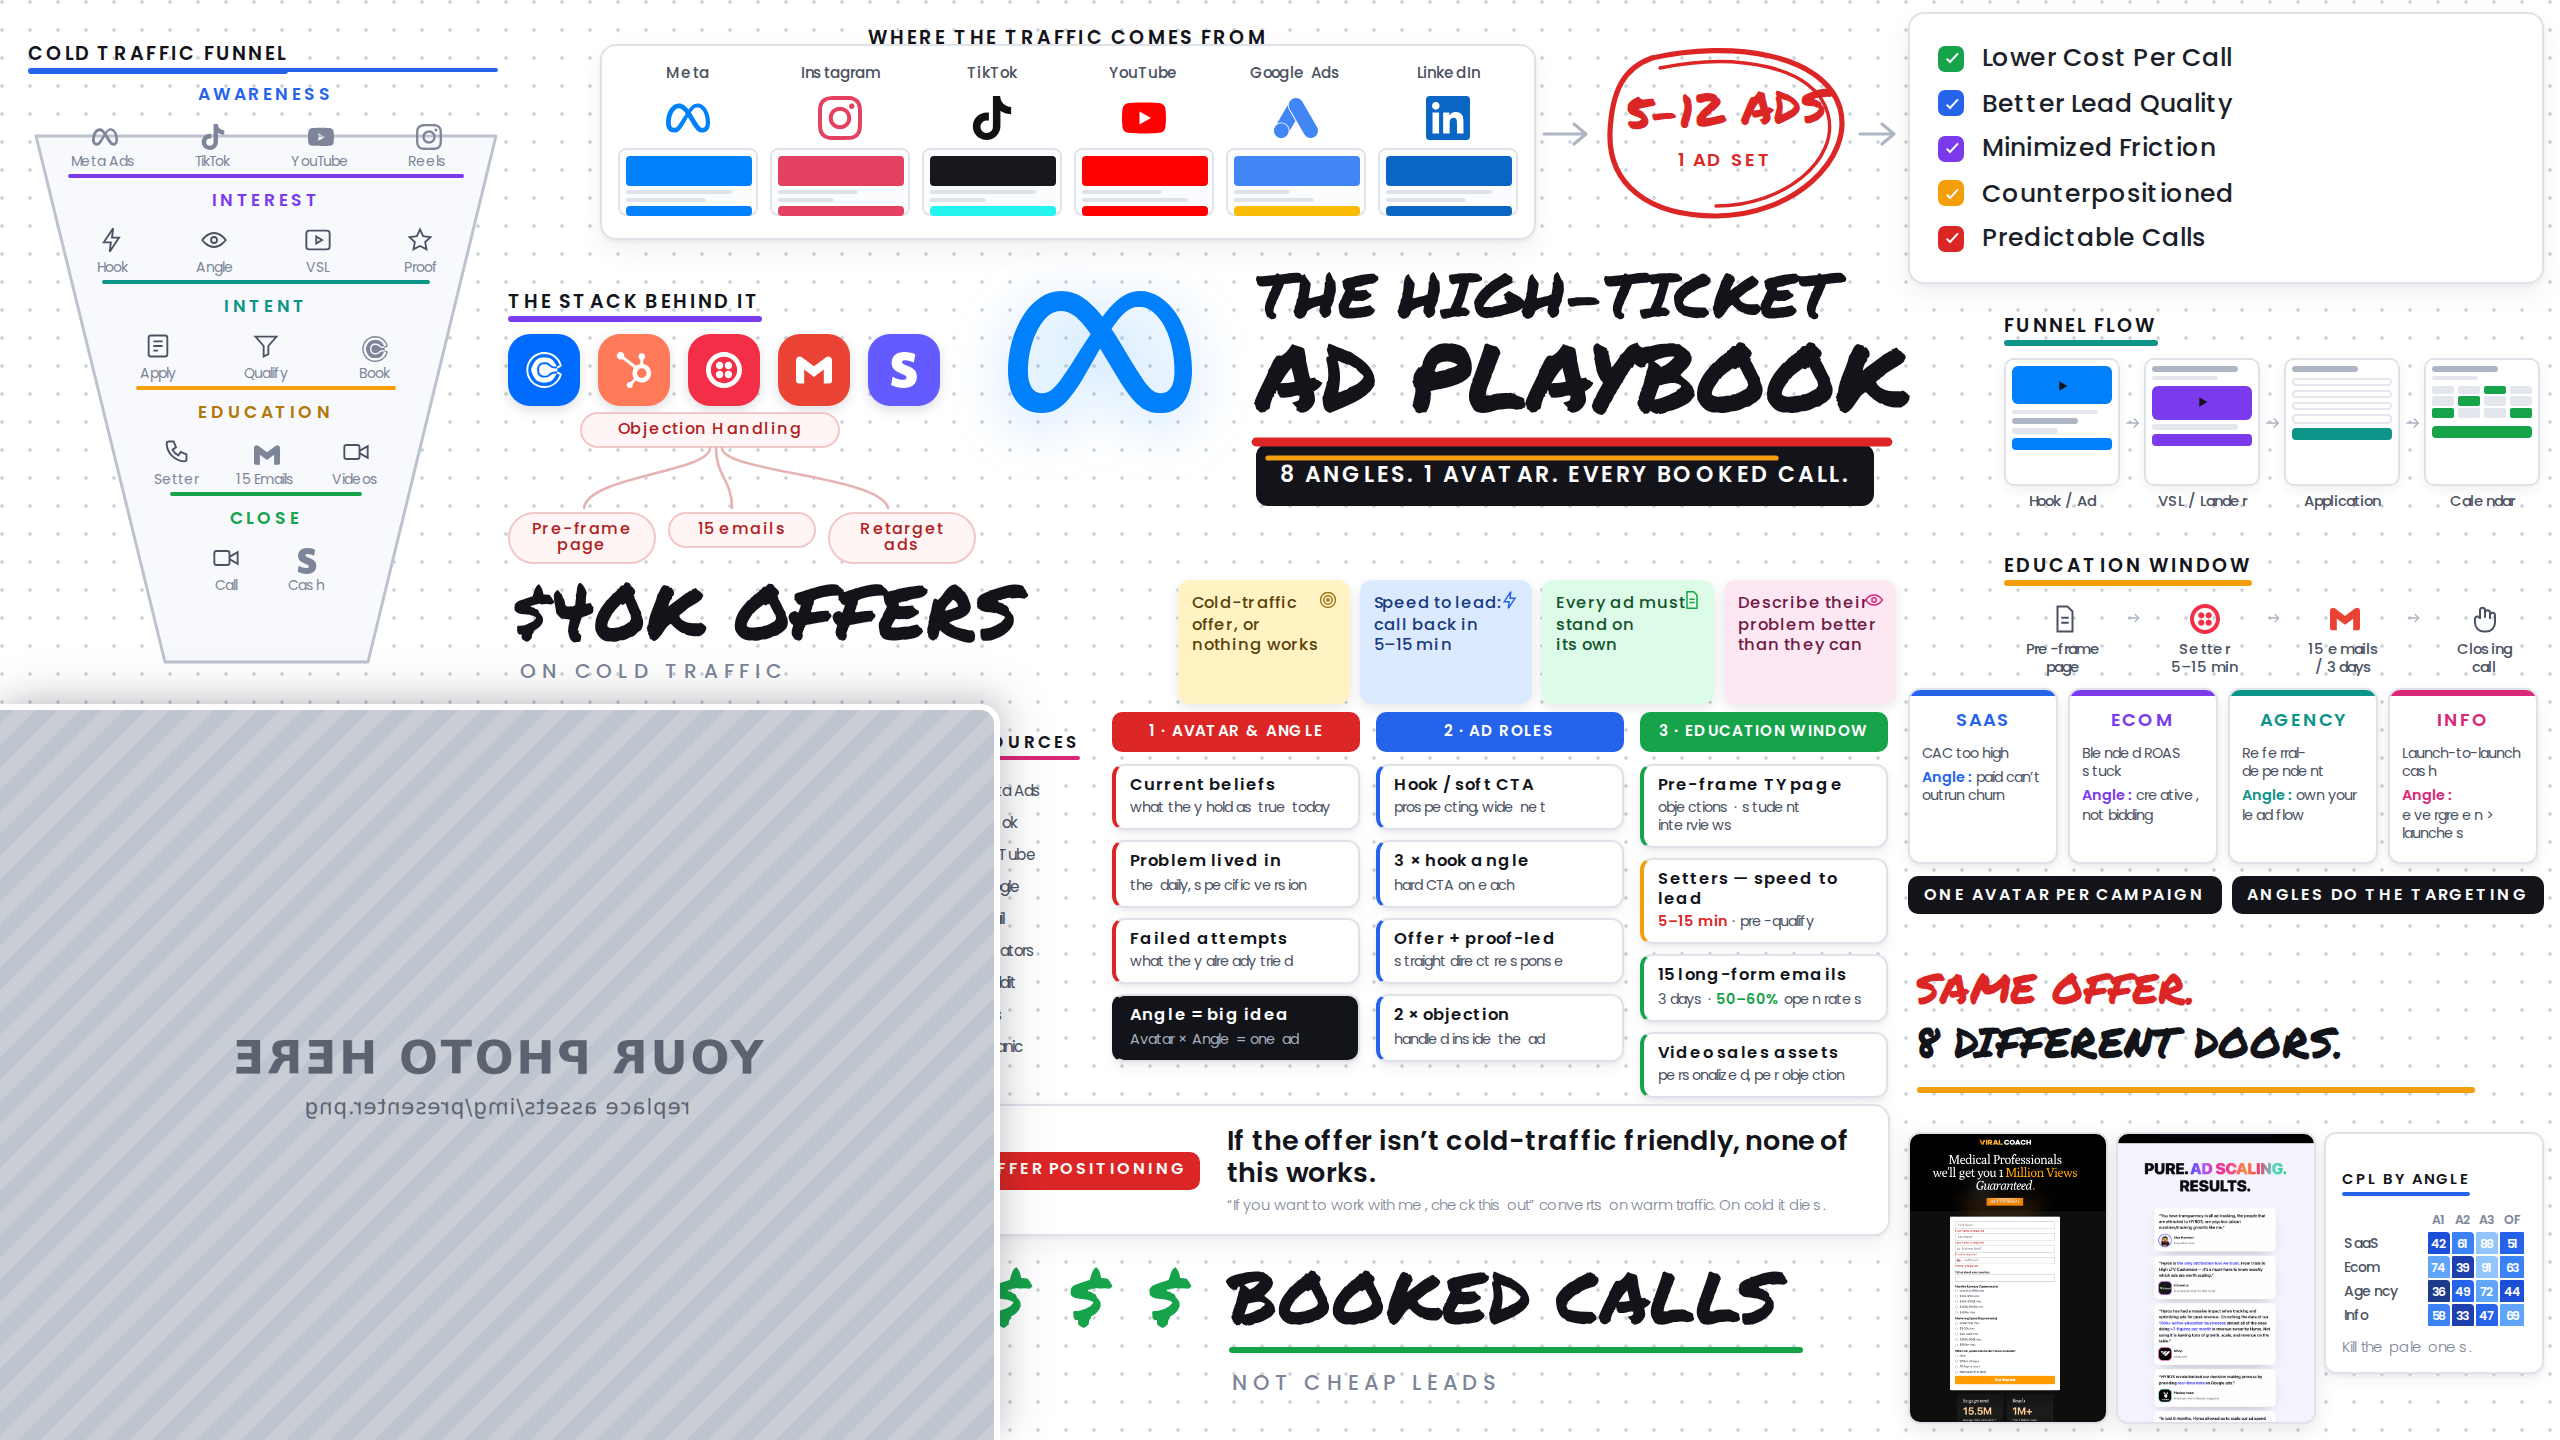
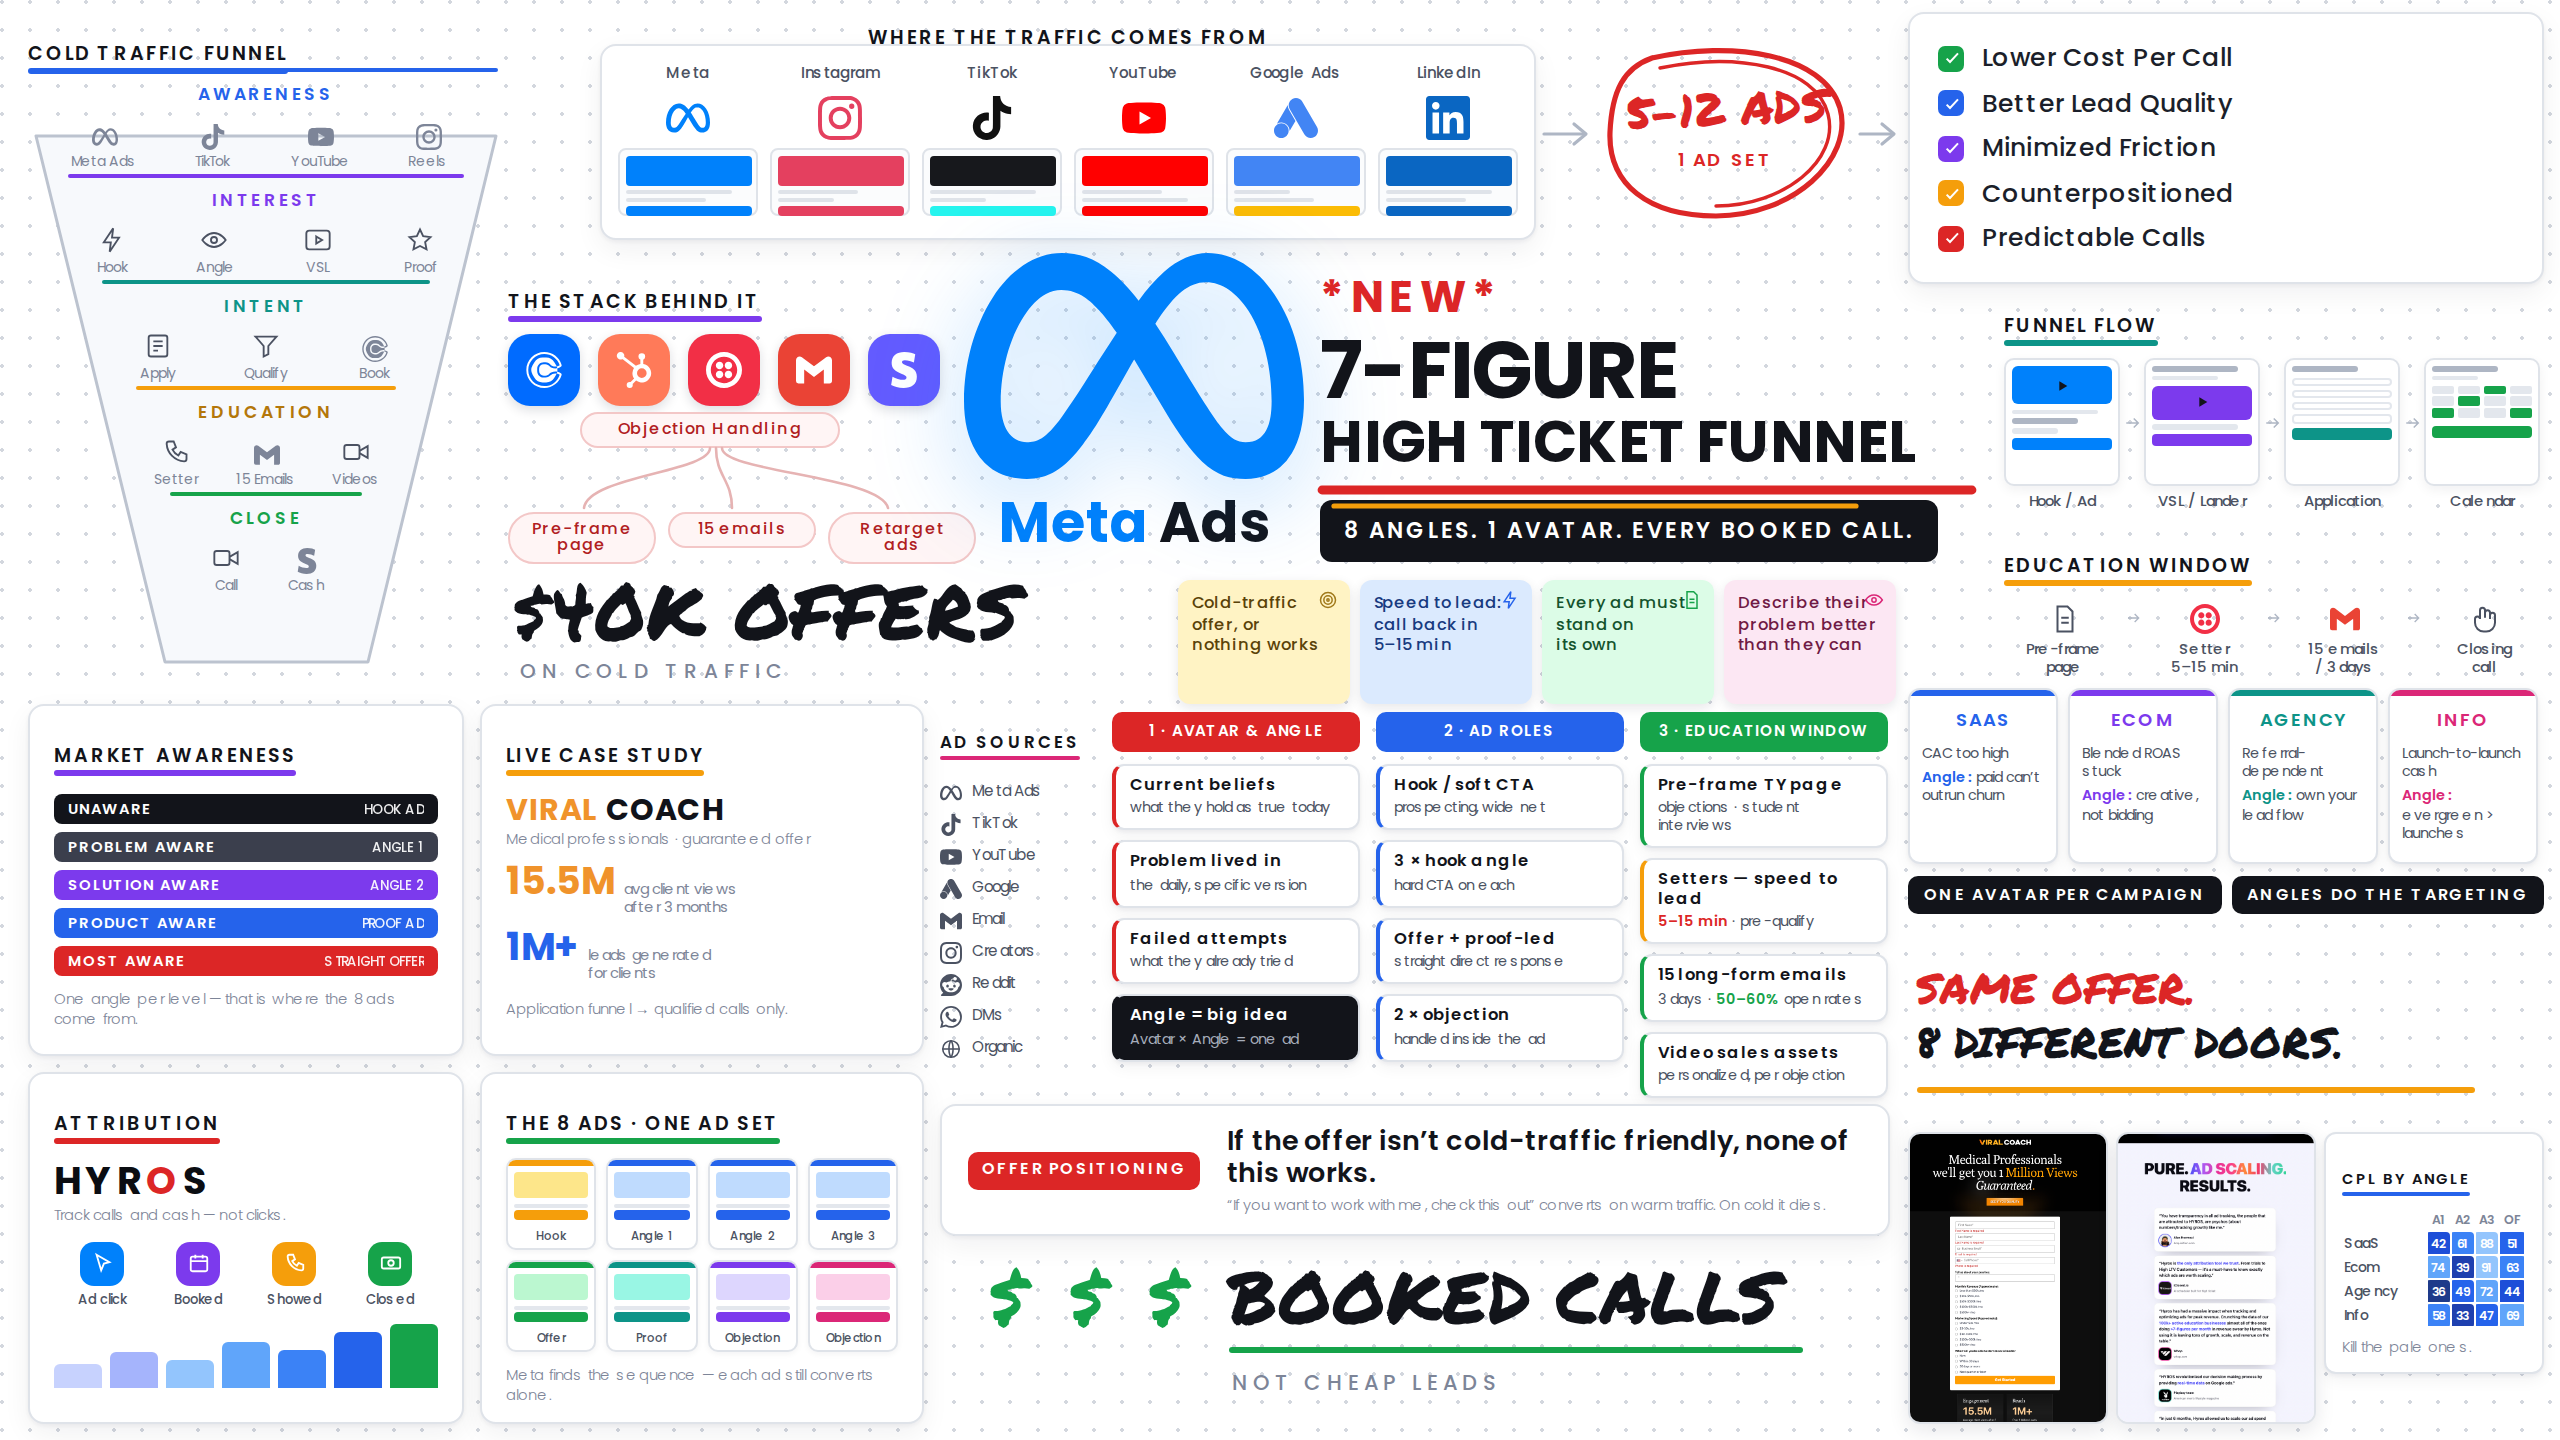
Retitle thumbnail and enlarge the Meta Ads anchor
- Title is now *NEW* / 7-FIGURE / HIGH TICKET FUNNEL, set in Poppins 700
  instead of the marker face
- Meta mark scaled from 92px to 170px and paired with a "Meta Ads" wordmark,
  so it reads as the anchor logo at a glance
- Presenter frame set to display:none until the real photo is available

Claude-Session: https://claude.ai/code/session_01GDiUpLQwiL13ZvT66QBghD

Changed region(s): [[0.0, 0.4688, 0.4062, 1.0], [0.375, 0.1562, 0.7812, 0.4062]]

diff --git a/design/thumbnails/multi-avatar-funnel/index.html b/design/thumbnails/multi-avatar-funnel/index.html
@@ -1,6 +1,6 @@
 <!doctype html>
 <meta charset="utf-8">
-<title>The High-Ticket Ad Playbook — Thumbnail</title>
+<title>7-Figure High Ticket Funnel — Thumbnail</title>
 <style>
 @font-face{font-family:Marker;src:url(assets/fonts/permanent-marker-latin-400-normal.woff2) format('woff2');font-weight:400;font-display:block}
 @font-face{font-family:Poppins;src:url(assets/fonts/poppins-latin-300-normal.woff2) format('woff2');font-weight:300;font-display:block}
@@ -140,14 +140,22 @@ svg.pen{position:absolute;overflow:visible;pointer-events:none}
 }
 
 /* ═══════ E · anchor ═══════ */
-#anchor{left:504px;top:130px;width:92px;height:92px}
-#anchor .lg{width:92px;height:92px;filter:drop-shadow(0 6px 14px rgba(0,129,251,.28))}
+#anchor{left:482px;top:98px;width:170px;text-align:center}
+#anchor .lg{width:170px;height:170px;display:block;margin:0 auto;
+  filter:drop-shadow(0 10px 22px rgba(0,129,251,.30))}
+#anchor .mads{margin-top:-20px;font-weight:700;font-size:28px;letter-spacing:-.015em;
+  line-height:1;color:#12141a;white-space:nowrap}
+#anchor .mads i{font-style:normal;color:#0081fb}
 
 /* ═══════ F · title ═══════ */
-#ttl{left:628px;top:132px;width:392px}
-#ttl .l1{font-family:Marker,cursive;font-size:31px;line-height:1;white-space:nowrap}
-#ttl .l2{font-family:Marker,cursive;font-size:47px;line-height:.98;letter-spacing:-.01em;margin-top:2px;white-space:nowrap}
-#ttl .bar{margin-top:11px;display:inline-block;background:#12141a;color:#fff;
+#ttl{left:660px;top:138px;width:340px}
+#ttl .l0{font-weight:700;font-size:22px;letter-spacing:.15em;line-height:1;
+  color:var(--red);white-space:nowrap}
+#ttl .l1{font-weight:700;font-size:40px;letter-spacing:-.015em;line-height:1;
+  margin-top:5px;white-space:nowrap}
+#ttl .l2{font-weight:700;font-size:29px;letter-spacing:-.008em;line-height:1.02;
+  margin-top:2px;white-space:nowrap}
+#ttl .bar{margin-top:13px;display:inline-block;background:#12141a;color:#fff;
   font-weight:600;font-size:11px;letter-spacing:.11em;padding:7px 12px;border-radius:6px}
 
 /* ═══════ G · stickies ═══════ */
@@ -258,6 +266,7 @@ svg.pen{position:absolute;overflow:visible;pointer-events:none}
    --px/--py: which part of the photo is kept (object-position).
    --pzoom: >1 pushes in on the face.                                        */
 #presenter{
+  display:none;   /* flip to block once assets/img/presenter.png is the real photo */
   left:0;bottom:0;width:500px;height:368px;z-index:59;overflow:hidden;
   border-top:3px solid #fff;border-right:3px solid #fff;border-top-right-radius:10px;
   box-shadow:0 -2px 14px rgba(16,24,40,.16),6px -6px 26px rgba(16,24,40,.10);
@@ -445,15 +454,19 @@ svg.pen{position:absolute;overflow:visible;pointer-events:none}
   <div class="abs rpill" style="left:414px;top:256px;width:74px">Retarget ads</div>
 
   <!-- ═══════ E · anchor ═══════ -->
-  <div class="abs" id="anchor"><span class="lg lg-meta"><svg><use href="#lg-meta"/></svg></span></div>
+  <div class="abs" id="anchor">
+    <span class="lg lg-meta"><svg><use href="#lg-meta"/></svg></span>
+    <div class="mads"><i>Meta</i> Ads</div>
+  </div>
 
   <!-- ═══════ F · title ═══════ -->
   <div class="abs" id="ttl">
-    <div class="l1">THE HIGH-TICKET</div>
-    <div class="l2">AD PLAYBOOK</div>
-    <svg class="pen" style="left:-2px;top:84px;width:326px;height:15px">
-      <path style="stroke:var(--red);stroke-width:4.4" d="M2 5 H318"/>
-      <path style="stroke:var(--amber);stroke-width:2.6" d="M8 13 H262"/>
+    <div class="l0">*NEW*</div>
+    <div class="l1">7-FIGURE</div>
+    <div class="l2">HIGH TICKET FUNNEL</div>
+    <svg class="pen" style="left:0;top:102px;width:330px;height:15px">
+      <path style="stroke:var(--red);stroke-width:4.4" d="M1 5 H326"/>
+      <path style="stroke:var(--amber);stroke-width:2.6" d="M7 13 H268"/>
     </svg>
     <div class="bar">8 ANGLES. 1 AVATAR. EVERY BOOKED CALL.</div>
   </div>

diff --git a/design/thumbnails/multi-avatar-funnel/README.md b/design/thumbnails/multi-avatar-funnel/README.md
@@ -1,4 +1,4 @@
-# Thumbnail — "The High-Ticket Ad Playbook"
+# Thumbnail — "7-Figure High Ticket Funnel"
 
 YouTube thumbnail background built from the content of the Miro boards *New Paid Ads
 Funnel for High Ticket Products* and its more developed copy (Sol Twenty team).
@@ -34,16 +34,25 @@ and 602px wide at source against a 100px display box, so they hold up past 4K to
 Requires Playwright + Chromium. The script resolves `playwright` from the project
 first, then falls back to a global install.
 
-## Presenter cutout
+## Presenter frame
 
-The canvas is now filled edge to edge — there is no reserved empty zone. A cutout
-placed bottom-left will cover part of the Market Awareness / Attribution / case-study
-column, which is the intended behaviour: the reference thumbnail runs its wordmarks
-and left-hand lists behind the presenter the same way. If you want a specific panel
-to stay fully visible, swap it with one further right rather than clearing space.
+`#presenter` is a 500x368 frame flush to the bottom-left corner, sized like the
+reference thumbnail. It is currently **`display:none`** — set it back to `block` once
+`assets/img/presenter.png` is the real photo rather than the placeholder.
 
-Add the cutout as the last child of `#board` with
-`position:absolute; left:0; bottom:0;`.
+Framing is driven by custom properties on the element, so no cropping is needed
+up front:
+
+| Property | Effect |
+|---|---|
+| `--pflip` | `-1` un-mirrors a selfie-mode shot, `1` leaves it as filmed |
+| `--px` / `--py` | `object-position` — which part of the frame is kept |
+| `--pzoom` | `>1` pushes in on the face |
+
+The canvas is filled edge to edge, so enabling the frame covers the Market Awareness,
+case-study, Attribution and ad-matrix panels. That matches the reference, which runs
+its wordmarks and left-hand list behind the presenter. If a specific panel needs to
+stay visible, move it right rather than clearing space.
 
 ## Layout map (1280×720)
 
@@ -54,8 +63,8 @@ Add the cutout as the last child of `#board` with
 | B2 | 800,18 – 926,114 | Red-circled `5–12 ADS / 1 AD SET` |
 | C | 954,6 – 1272,142 | What it unlocks — checklist with coloured checkboxes |
 | D | 254,136 – 490,280 | Tool-stack discs, then Objection Handling fanning into three assets |
-| E | 504,130 – 596,222 | Meta anchor mark |
-| F | 628,132 – 1020,290 | Title, red + amber underline, black subtitle bar |
+| E | 482,98 – 652,276 | Meta Ads lockup — oversized anchor mark + wordmark |
+| F | 660,138 – 1000,282 | `*NEW*` / `7-FIGURE` / `HIGH TICKET FUNNEL`, red + amber underline, black subtitle bar |
 | — | 256,286 – 520,340 | `$40K OFFERS` / `on cold traffic` wordmark |
 | G | 589,290 – 948,352 | Four sticky notes — the non-negotiables |
 | H | 1002,148 – 1272,262 | Funnel flow wireframes: Hook/Ad → VSL → Application → Calendar |
@@ -74,9 +83,10 @@ Add the cutout as the last child of `#board` with
 
 ## Type and colour
 
-- **Poppins** for everything except the display lines. 300/400 for body copy, 500 for
-  labels, 600 for headings and chips. Permanent Marker is kept only for the title,
-  the circled stat, and the three big wordmarks.
+- **Poppins** for everything, including the title (700). 300/400 for body copy, 500
+  for labels, 600 for headings and chips. Permanent Marker survives only on the three
+  annotation-style bits: the circled `5-12 ADS` stat, `$40K OFFERS`, and
+  `BOOKED CALLS` / `SAME OFFER`.
 - Section headings use `.sec` plus a `u-*` class, which draws the coloured underline:
   `u-blue`, `u-red`, `u-green`, `u-amber`, `u-violet`, `u-teal`, `u-pink`.
 - Background is `#ffffff` with a 14px grey dot grid
